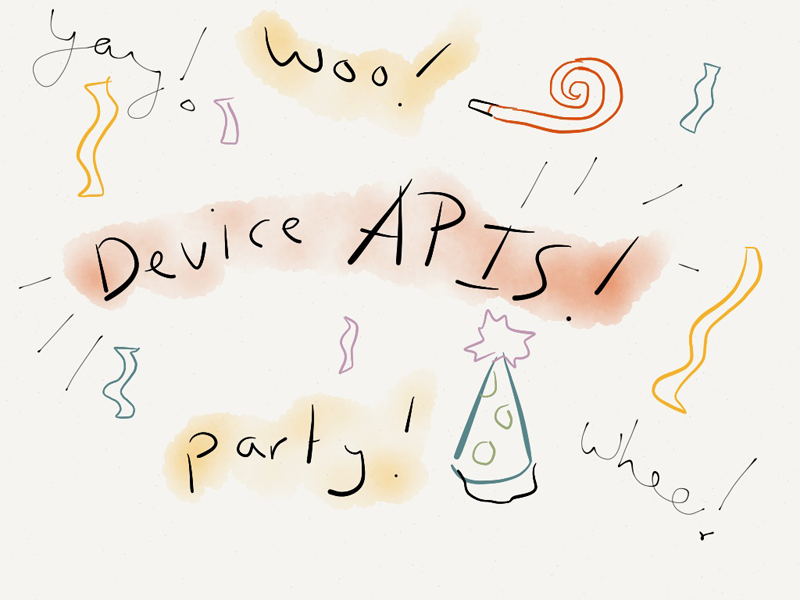
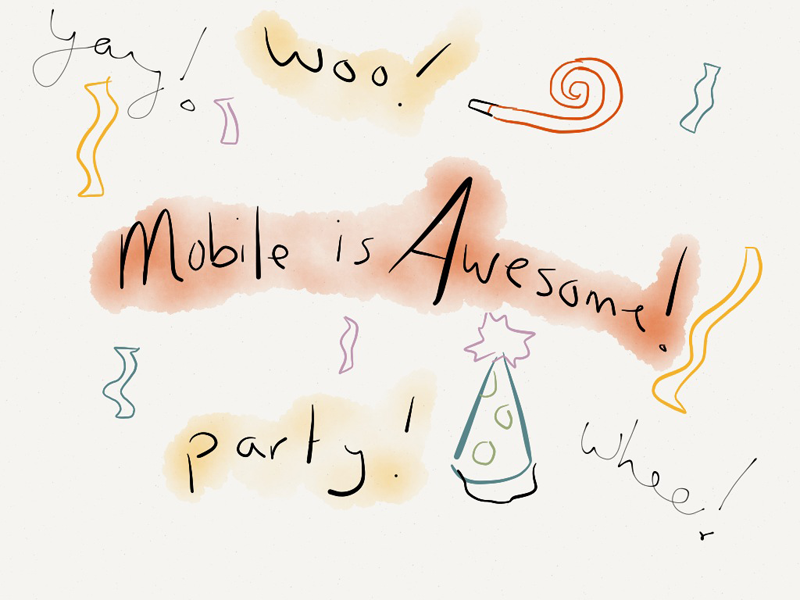
Updating section 7 to have less device-API-ish wording

Changed region(s): [[0.0312, 0.24, 0.875, 0.63]]

diff --git a/presentation/07-mobile-awesome.html b/presentation/07-mobile-awesome.html
@@ -6,7 +6,7 @@
   <meta http-equiv="Content-Type" content="text/html; charset=utf-8" />
   <meta http-equiv="Content-Style-Type" content="text/css" />
   <meta name="generator" content="pandoc" />
-  <meta name="author" content="Device capabilities and a brief tour of Device APIs" />
+  <meta name="author" content="Device capabilities" />
   <title>Getting to the awesome parts of mobile</title>
   <style type="text/css">
 table.sourceCode, tr.sourceCode, td.lineNumbers, td.sourceCode {
@@ -38,7 +38,7 @@ code > span.er { color: #ff0000; font-weight: bold; }
 <div class="slide titlepage">
   <h1 class="title">Getting to the awesome parts of mobile</h1>
   <p class="author">
-Device capabilities and a brief tour of Device APIs
+Device capabilities
   </p>
 </div>
 <div class="section slide level2" id="oh-the-things-we-can-do-with-mobile">
